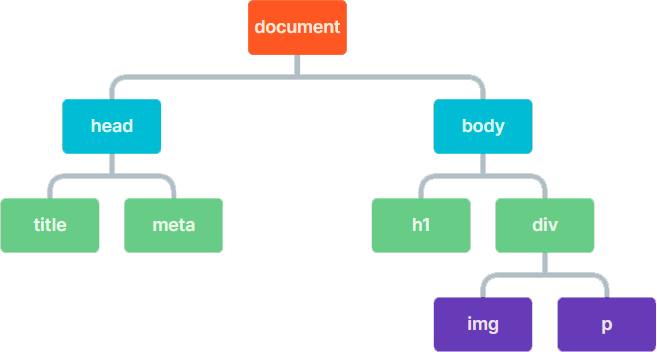
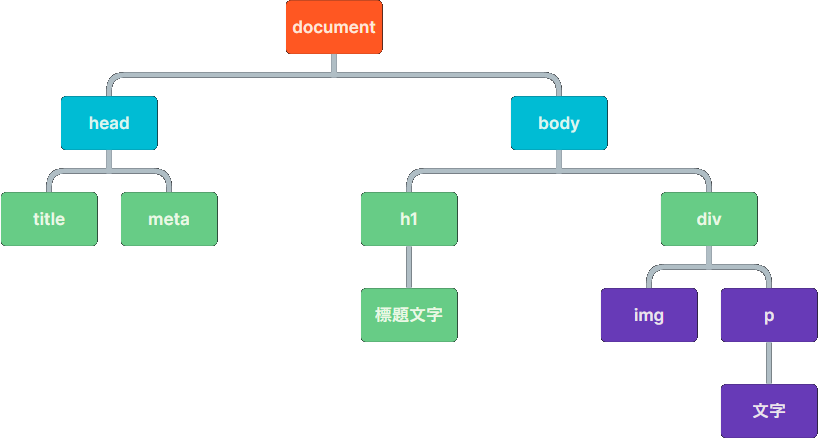
DOM: 更新課程內容

diff --git a/docs/interaction/dom.md b/docs/interaction/dom.md
@@ -1,0 +1,340 @@
+# DOM
+`DOM` 全名叫 `Document Object Model`，中文稱 `文件物件模型`  
+
+## 介紹
+`DOM` 為 `BOM` 的 `document`，也就是指整個網頁的 HTML 部分  
+
+<ImageFigure
+  src="/images/ch10/dom.png"
+  alt="DOM 結構圖"
+  title="DOM 結構圖"
+>DOM 結構圖</ImageFigure>
+
+## 取得元素
+- `document` 代表整個網頁
+- `document.documentElement` 代表整個網頁的根元素，也就是 `<html>`
+- `document.head` 代表 `<head>`
+- `document.body` 代表 `<body>`
+- `.getElementById(id)` 透過 id 抓取一個元素
+- `.getElementsByTagName(標籤名)` 透過標籤名稱抓取所有元素
+- `.getElementsByClassName(class名)` 透過 class 抓取所有元素
+- `.querySelector(選擇器)` 透過 CSS 選擇器抓取第一個元素
+- `.querySelectorAll(選擇器)` 透過 CSS 選擇器抓取所有元素
+
+:::tip TIP
+建議取得元素時使用 `const` 宣告，變數名稱設定跟元素名稱一樣，避免自己混淆  
+```js
+const title = document.getElementById("title")
+```
+:::
+
+:::tip TIP
+這些語法可以串聯使用，就可以取得更深層的元素
+```js
+document.getElementById('main').getElementsByClassName('test')
+```
+:::
+
+:::danger 注意
+迴圈取得的元素時，無法使用 `陣列.forEach`  
+因為取得的資料型態是 `HTMLCollection`，不是單純的陣列  
+但還是可以使用 `for`、`for of`、`for in` 迴圈處理
+:::
+
+```js
+// 取得 id 為 header 的元素
+document.getElementByID("header")
+
+// 取得所有 h1 標籤，結果會是陣列
+document.getElementsByTagName("h1")
+
+// 取得所有 class 為 text-center 的所有元素，結果會是陣列
+document.getElementsByClassName("text-center")
+
+// 取得所有 class 為 text-center 和 text-white 的元素
+document.getElementsByClassName('text-center text-white')
+
+// 使用 CSS 選擇器，取第一個符合的
+document.querySelector(".card")
+
+// 使用 CSS 選擇器，取所有符合的，結果會是陣列
+document.querySelectorAll(".product")
+```
+
+也可以使用這些方法取得相對位置的元素
+- `.parentElement` 取得上一層元素
+- `.children` 取得下一層所有元素
+- `.firstElementChild` 取得下一層第一個元素
+- `.lastElementChild` 取得下一層最後一個元素
+- `.nextElementSibling` 取得同一層的下一個元素
+- `.previousElementSibling` 取得同一層的上一個元素
+
+:::tip Tip
+這些語法都只能相對距離為 1 的元素  
+例如想要取得同一層的下兩個元素，需要串聯語法，或使用迴圈  
+  
+串連語法範例
+```js
+const el document.getElementById('id').nextElementSibling.nextElementSibling
+```
+迴圈範例
+```js
+let el = document.getElementById('id')
+for (let i = 1; i <= 2; i++) {
+  el = el.nextElementSibling
+}
+```
+:::
+
+```js
+// parentElement 可以抓取上一層元素
+document.getElementById("myLI").parentElement;
+
+// children 可以抓取下一層所有元素
+document.getElementById("myUL").children;
+
+// firstChild 可以抓取下一層第一個元素
+document.getElementById("myUL").firstElementChild;
+
+// lastChild 可以抓取下一層最後一個元素
+document.getElementById("myUL").lastElementChild;
+
+// nextElementSibling 可以抓取同一層的下一個元素
+document.getElementById("item1").nextElementSibling 
+
+// previousElementSibling 可以抓取同一層的上一個元素
+document.getElementById("item2").previousElementSibling
+```
+
+## 修改元素
+- `.innerText` 元素內的文字
+- `.innerHTML` 元素內的 HTML
+- `.style` 元素的行內樣式
+- `.屬性名` 元素屬性
+- `.setAttribute(屬性名, 值)` 修改元素屬性
+- `.getAttribute(屬性名)` 取得元素屬性
+- `.className` 取得元素的 class
+- `.classList` 操作元素的 class
+  - `.add("class")` 新增 class
+  - `.remove("class")` 移除 class
+  - `.replace("old", "new")` 取代 class
+  - `.toggle("class")` 開關
+  - `.contains("class")` 是否有該
+
+:::tip TIP
+`.style` 只能取得行內樣式  
+如果要取得最終樣式，需使用 `getComputedStyle(元素, 偽元素).樣式名` 取得最終樣式  
+需要注意這個方式取得的資訊是唯讀的，無法修改
+
+取得樣式範例
+```js
+const title = document.getElementById('title')
+const titleColor = getComputedStyle(title).color
+```
+
+取得偽元素樣式範例
+```js
+const link = document.getElementById('link')
+const linkAfterColor = getComputedStyle(link, '::after').color
+```
+:::
+
+:::danger 注意
+修改獲取得元素屬性時，使用 `.屬性名` 比用 `setAttribute` 和 `getAttribute` 的處理速度快  
+:::
+
+```js
+// 取得元素內的文字
+console.log(element.innerText)
+// 修改元素內的文字
+element.innerText = "123"
+// 取得元素內的 HTML
+console.log(element.innerText)
+// 修改元素內的 HTML
+element.innerHTML = "<h1>123</h1>"; 
+
+// 取得元素 CSS
+console.log(element.style.backgroundColor)
+// 修改元素 CSS
+element.style['background-color'] = "red";
+
+// 取得元素屬性
+const href = element.getAttribute("href")
+console.log(href)
+console.log(element.href)
+// 修改元素屬性
+element.setAttribute("href", "https://kento520.tw")
+element.href = "https://kento520.tw"
+
+// 直接取得元素 class
+console.log(element.className)
+// 直接修改元素 class
+element.className = 'text-red text-center'
+
+// 使用 classList 新增 class
+element.classList.add("text-italic")
+element.classList.add("bg-black text-white")
+// 使用 classList 移除 class
+element.classList.remove("text-italic");
+element.classList.remove("bg-black text-white");
+// 使用 classList 取代 class
+element.classList.replace("text-red", "text-blue");
+// 使用 classList 切換 class
+element.classList.toggle("red");
+```
+
+## 元素移動
+- `document.createElement(標籤名)` 新增一個元素，需另外使用語法 DOM
+- `.appendChild(元素)` 在內部最後面插入一個元素
+- `.replaceChild(新元素, 舊元素)` 在內部替換元素
+- `.insertBefore(新元素, 參考元素)` 在內部最前面插入一個元素，並指定插入位置，用於新增或移動元素
+  - 參考元素為 null 時，等同於 `appendChild`
+- `.insertAdjacentHTML(位置, HTML)` 在元素內指定位置插入 HTML
+  - `beforebegin` 元素前標籤之前
+  - `afterbegin` 元素前標籤之後
+  - `beforeend` 元素後標籤之前
+  - `afterend` 元素後標籤之後
+- `.remove()` 移除元素
+- `.removeChild(子元素)` 移除元素內的子元素，回傳被刪除的元素
+
+```js
+const p = document.createElement("p")
+element.appendChild(p)
+
+const div = document.createElement("div")
+element.replaceChild(div, p)
+```
+
+`.insertBefore()` 搬移範例
+::: demo [vanilla]
+```html
+<html>
+  <input type="button" value="移動到前面" id="example2-btn1">
+  <input type="button" value="移動到最後" id="example2-btn2">
+  <hr>
+  <ul id="example2-list1">
+    <li>紅茶</li>
+    <li>可樂</li>
+    <li>咖啡</li>
+  </ul>
+  <hr>
+  <ul id="example2-list2">
+    <li>水</li>
+    <li>牛奶</li>
+    <li>果汁</li>
+  </ul>
+</html>
+<script>
+  const list1 = document.getElementById('example2-list1')
+  const list2 = document.getElementById('example2-list2')
+  const btn1 = document.getElementById('example2-btn1')
+  const btn2 = document.getElementById('example2-btn2')
+
+  btn1.onclick = () => {
+    const first = list2.firstElementChild
+    list1.insertBefore(first, list1.firstElementChild)
+  }
+  btn2.onclick = () => {
+    const first = list2.firstElementChild
+    list1.insertBefore(first, null)
+  }
+</script>
+```
+:::
+
+`insertAdjacentHTML` 範例
+::: demo [vanilla]
+```html
+<html>
+  <input type="button" value="beforeend" id="example1-btn1">
+  <input type="button" value="afterend" id="example1-btn2">
+  <input type="button" value="beforebegin" id="example1-btn3">
+  <input type="button" value="afterbegin" id="example1-btn4">
+  <div id="example1-div">
+    <p>123</p>
+  </div>
+</html>
+<style>
+  #example1-div {
+    border: 1px solid aqua;
+  }
+</style>
+<script>
+  const div = document.getElementById('example1-div')
+  const btn1 = document.getElementById('example1-btn1')
+  const btn2 = document.getElementById('example1-btn2')
+  const btn3 = document.getElementById('example1-btn3')
+  const btn4 = document.getElementById('example1-btn4')
+
+  btn1.onclick = () => {
+    div.insertAdjacentHTML('beforeend', '<p>insertAdjacentHTML (beforeend)</p>')
+  }
+  btn2.onclick = () => {
+    div.insertAdjacentHTML('afterend', '<p>insertAdjacentHTML (afterend)</p>')
+  }
+  btn3.onclick = () => {
+    div.insertAdjacentHTML('beforebegin', '<p>insertAdjacentHTML (beforebegin)</p>')
+  }
+  btn4.onclick = () => {
+    div.insertAdjacentHTML('afterbegin', '<p>insertAdjacentHTML (afterbegin)</p>')
+  }
+</script>
+```
+:::
+
+## 節點
+`Node` 節點物件是 `DOM` 內所有東西的通用名稱，包含文字、註解以及元素等等  
+上面所有的 `Element` 元素物件都是 `Node` 的一種，代表元素  
+操作的時候要注意 `Node` 包含了所有東西，`Element` 只包含元素
+
+節點類型
+|名稱|數值|
+|---|---|
+|ELEMENT_NODE|1|
+|ATTRIBUTE_NODE|2|
+|TEXT_NODE|3|
+|CDATA_SECTION_NODE|4|
+|PROCESSING_INSTRUCTION_NODE|7|
+|COMMENT_NODE|8|
+|DOCUMENT_NODE|9|
+|DOCUMENT_TYPE_NODE|10|
+|DOCUMENT_FRAGMENT_NODE|11|
+
+:::danger 注意
+程式碼排版的縮排空格也算是 `Node.TEXT_NODE`
+:::
+
+Node 相關語法
+- `.nodeType` 取得節點類型
+- `.nodeName` 取得節點名稱
+- `.nodeValue` 取得節點值
+- `.childNodes` 取得所有子節點
+- `.firstChild` 取得第一個子節點
+- `.lastChild` 取得最後一個子節點
+- `.nextSibling` 取得下一個同一層節點
+- `.previousSibling` 取得上一個同一層節點
+- `.parentNode` 取得上一層節點
+- `document.createTextNode(文字)` 新增一個文字節點
+
+```html
+<div id="example-div"><!-- 註解--><p id="example-p">123456<p></div>
+```
+```js
+// 取得 div 內第一個節點的類型，為註解
+const div = document.getElementById("example-div")
+console.log(div.firstChild.nodeType)                        // 8
+console.log(div.firstChild.nodeType === Node.COMMENT_NODE)  // true
+
+// 取得 p 內第一個節點的類型，為文字
+const p = document.getElementById("example-p")
+console.log(p.nodeType === Node.ELEMENT_NODE)               // true
+console.log(p.firstChild.nodeType === Node.TEXT_NODE)       // true
+```
+
+## 綜合練習
+:::warning 練習
+製作倒數計時器
+- 使用者用 `prompt()` 輸入秒數數字
+- 在網頁只能有一行字顯示 `剩餘 X 秒`，秒數不能變負數，顏色為藍色
+- 時間到時文字變成紅色的 `時間到`
+:::
